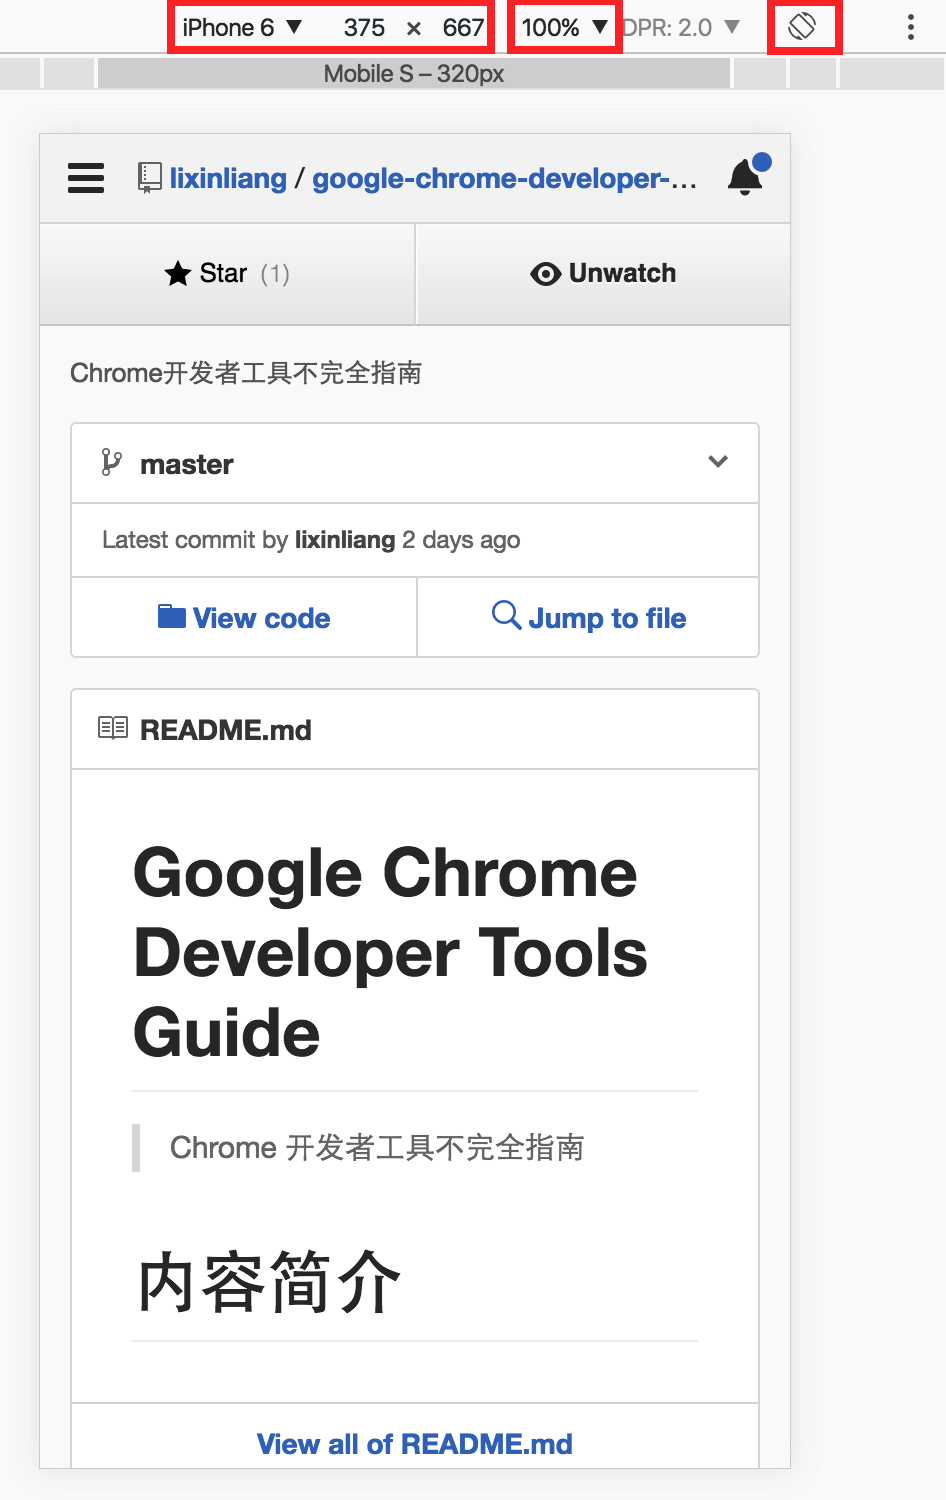
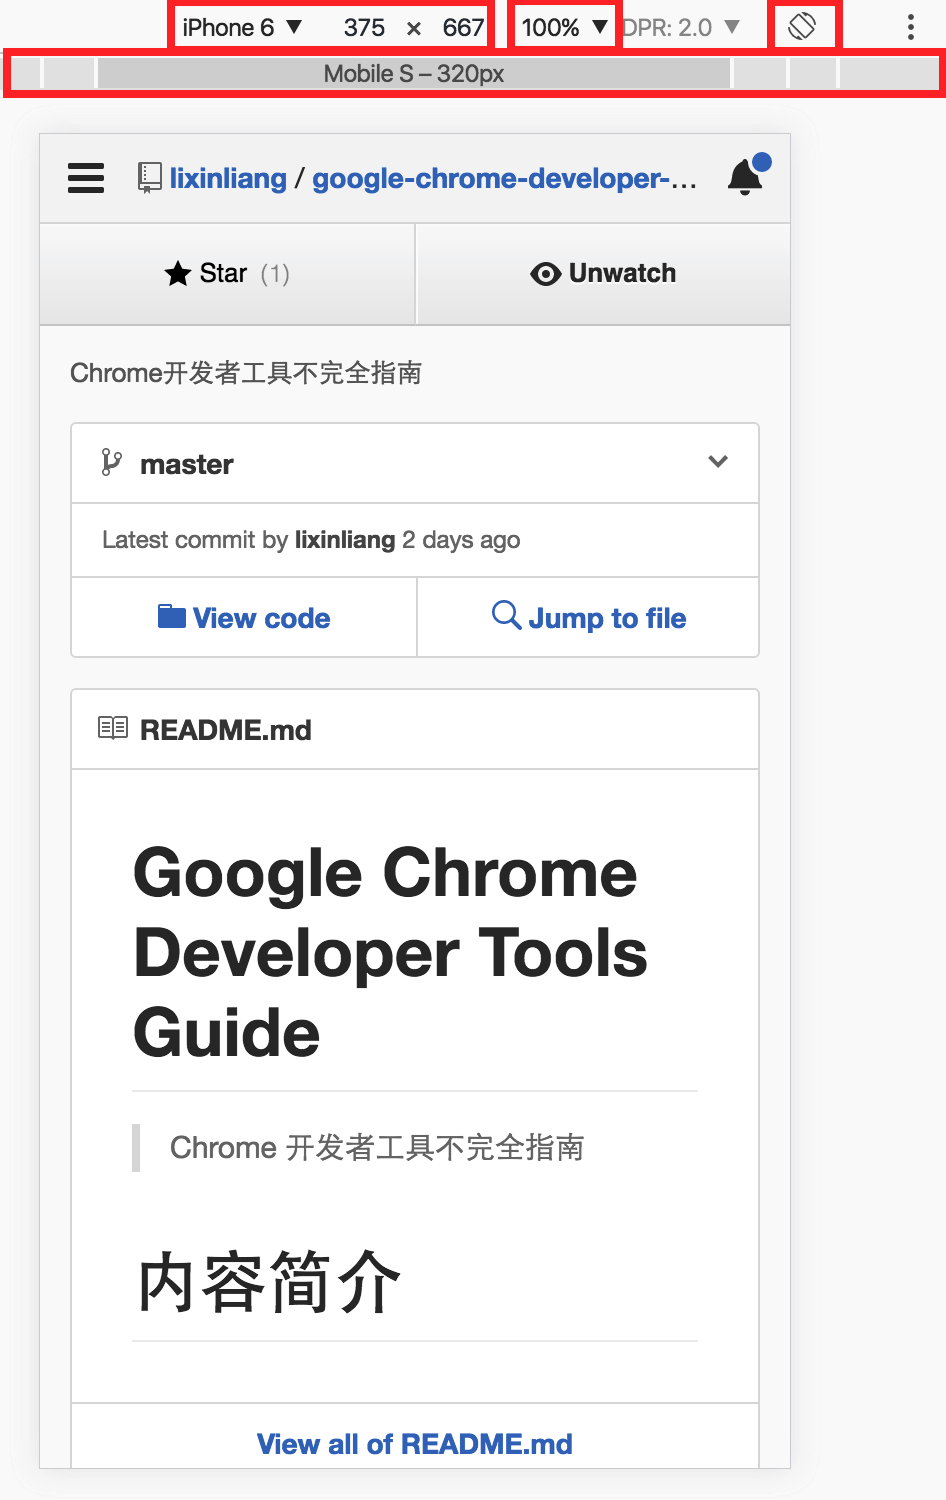
update

Changed region(s): [[0.0, 0.0307, 1.0, 0.092]]

diff --git a/chapter/3-菜单栏.md b/chapter/3-菜单栏.md
@@ -36,6 +36,8 @@
 
 * 可模拟设备旋转。
 
+* 点击顶部灰色块状区域可快速切换设备，鼠标悬浮显示设备宽度。
+
 ### 响应式设计：选择设备
 
 ![](../images/3-2-2.png)
@@ -63,6 +65,10 @@
 ### 响应式设计：显示`media query`规则
 
 ![](../images/3-2-4.png)
+
+* 悬浮显示该断点适配宽度。
+
+* 点击可快速切换到该宽度。
 
 * 右键可查看该规则源码并在`sources`面板显示。
 
